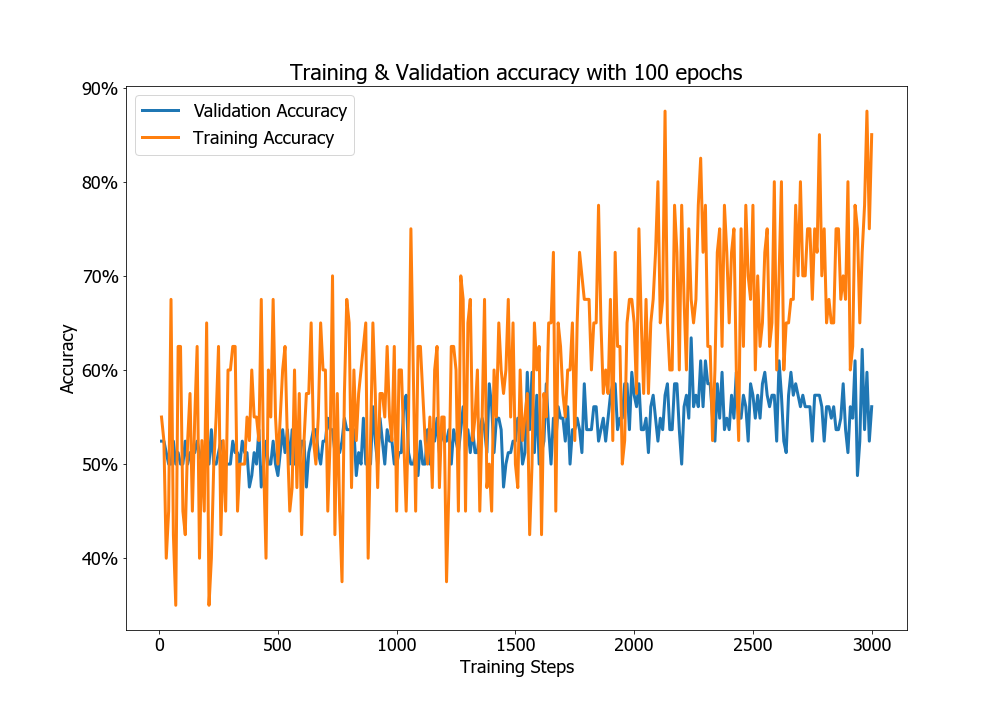
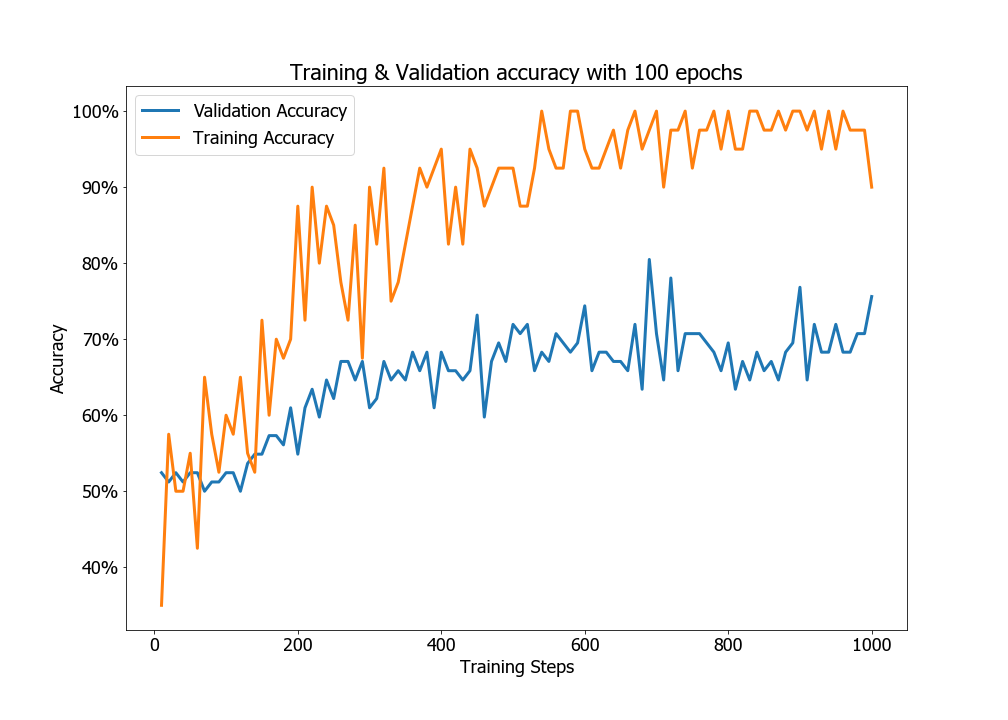
fixing embedding mistakes

diff --git a/src/LEAM/testing.py b/src/LEAM/testing.py
@@ -1,0 +1,89 @@
+# -*- coding: utf-8 -*-
+
+import os, sys, cPickle
+import torch
+import torch.nn as nn
+import torch.nn.functional as F
+import numpy as np
+import _uniout
+
+from model import *
+from utils import *
+
+if len(sys.argv) != 2:
+    sys.exit("Usage: $ python testing.py <path to model file, ending with .pt>")
+
+device = torch.device('cuda:0' if torch.cuda.is_available() else 'cpu')
+
+
+opt = Options() # Please specify the options in utils.py file
+loadpath = "../../data/word_dic.p"
+embpath = "../../data/word_emb_ver_1.0.p"
+opt.num_class = 4
+opt.class_name = ['normal', 'depression', 'traumatic', 'bipolar']
+
+x = cPickle.load(open(loadpath, "rb"))
+train, val, test = x[0], x[1], x[2]
+train_lab, val_lab, test_lab = x[6], x[7], x[8]
+wordtoix, ixtoword = x[9], x[10]
+#print(train_lab)
+#train_lab = [np.array([[1.],[0.],[0.],[0.]]) if x == 'normal' else np.array([[0.],[1.],[0.],[0.]]) if x == 'depression' else np.array([[0.],[0.],[1.],[0.]]) if x == 'bipolar' else np.array([[0.],[0.],[0.],[1.]]) for x in train_lab]
+#val_lab = [np.array([[1.],[0.],[0.],[0.]]) if x == 'normal' else np.array([[0.],[1.],[0.],[0.]]) if x == 'depression' else np.array([[0.],[0.],[1.],[0.]]) if x == 'bipolar' else np.array([[0.],[0.],[0.],[1.]]) for x in val_lab]
+#test_lab = [np.array([[1.],[0.],[0.],[0.]]) if x == 'normal' else np.array([[0.],[1.],[0.],[0.]]) if x == 'depression' else np.array([[0.],[0.],[1.],[0.]]) if x == 'bipolar' else np.array([[0.],[0.],[0.],[1.]]) for x in test_lab]
+del x
+print("load data finished")
+
+test_lab = np.array(test_lab, dtype='float32')
+opt.n_words = len(ixtoword)
+
+
+opt.W_emb = np.array(cPickle.load(open(embpath, 'rb')),dtype='float32')[0]
+opt.W_class_emb =  load_class_embedding( wordtoix, opt)
+uidx = 0
+max_val_accuracy = 0.
+max_test_accuracy = 0.
+
+# Load model
+model = LeamNet(opt).to(device)
+if torch.cuda.is_available():
+    model.load_state_dict(torch.load(sys.argv[1]))
+else:
+    model.load_state_dict(torch.load(sys.argv[1],map_location='cpu'))
+
+# Get 1000 samples to test
+test_sent, test_mask = prepare_data_for_emb(test[:1000], opt)
+test_sent = torch.LongTensor(test_sent).to(device)
+test_mask = torch.tensor(test_mask).to(device)
+
+test_lab = np.array(test_lab[:1000])
+test_lab = test_lab.reshape((len(test_lab), opt.num_class))
+
+logits,logits_class, Att_v = model(test_sent, test_mask, opt)
+
+prob = nn.Softmax()(logits).to(device)
+correct_prediction = torch.eq(torch.argmax(prob, 1).to(device), torch.argmax(torch.tensor(test_lab), 1).to(device)).to(device)
+accuracy = torch.mean(correct_prediction.type(torch.float64)).to(device)
+print("Test accuracy %f " % accuracy)
+
+# Saving the predictions and the attentions
+if not os.path.isdir(opt.save_path+"attentions"):
+    os.mkdir(opt.save_path+"attentions")
+
+test_sents_words = []
+for j in np.array(test_sent.cpu()):
+    sent = [ixtoword[i] for i in j]
+    test_sents_words.append(sent)
+
+predictions = np.array(torch.argmax(prob, 1).cpu())
+ground_truths = np.array(torch.argmax(torch.tensor(test_lab), 1).cpu())
+
+
+for i, words, alphas_values, ground_truth, prediction in zip(range(Att_v.shape[0]), test_sents_words, Att_v, ground_truths, predictions):
+    with open(opt.save_path+"attentions/visualization_{}.html".format(i), "w") as html_file:
+        for word, alpha in zip(words, alphas_values / alphas_values.max()):
+            if word == "END":
+                continue
+            html_file.write('<font style="background: rgba(255, 255, 0, %f)"><meta charset="UTF-8">%s</font>\n' % (alpha*1.1, word.encode('utf-8')))
+        html_file.write('<br/><font><meta charset="UTF-8">Ground Truth: %s, Prediction: %s</font>\n' % (opt.class_name[ground_truth].encode('utf-8'), opt.class_name[prediction].encode('utf-8')))
+
+

diff --git a/src/features/data_cleaning.py b/src/features/data_cleaning.py
@@ -1,10 +1,22 @@
 from sklearn.model_selection import train_test_split
 import cPickle
-from utils import *
 import pandas as pd
 
 
-data_path = "../data/cleaned_data.csv"
+def convert_word_to_ix(data,wordtoix):
+    result = []
+    for sent in data:
+        temp = []
+        for w in sent.split():
+            if w in wordtoix:
+                temp.append(wordtoix[w])
+            else:
+                temp.append(1)
+        temp.append(0)
+        result.append(temp)
+    return result
+
+data_path = "../../data/cleaned_data.csv"
 
 df = pd.read_csv(data_path)
 y = [[0,0,0,0] for _ in df['label']]
@@ -44,8 +56,8 @@ X_train, X_test, y_train, y_test = train_test_split(X, y, test_size=0.20, random
 
 X_val = X_train[400:]
 y_val = y_train[400:]
-print(y_val)
-print(y_train)
+print(X_val)
+#print(y_train)
 X_train = X_train[:400]
 y_train = y_train[:400]
 
@@ -57,4 +69,4 @@ X_train = convert_word_to_ix(X_train,wordtoix)
 X_val = convert_word_to_ix(X_val,wordtoix)
 X_test = convert_word_to_ix(X_test,wordtoix)
 
-cPickle.dump([X_train, X_val, X_test, train_text, val_text, test_text, y_train, y_val, y_test, wordtoix, ixtoword], open("../data/word_dic.p", "wb"))
+cPickle.dump([X_train, X_val, X_test, train_text, val_text, test_text, y_train, y_val, y_test, wordtoix, ixtoword], open("../../data/word_dic.p", "wb"))

diff --git a/src/features/embedding.py b/src/features/embedding.py
@@ -13,16 +13,18 @@ def loadGloveModel(gloveFile):
     print("Done.",len(model)," words loaded!")
     return model
 
-model = loadGloveModel("../data/glove.6B.300d.txt")
+model = loadGloveModel("../../data/glove.6B.300d.txt")
 
 vector_size = 300
 
-loadpath = "../data/word_dic.p"
+loadpath = "../../data/word_dic.p"
 
 data = cPickle.load(open(loadpath, "rb"))
 X_train, X_val, X_test = data[0], data[1], data[2]
 y_train, y_val, y_test = data[6], data[7], data[8]
 wordtoix, ixtoword = data[9], data[10]
+
+#print X_val
 
 embedding_vectors = np.random.uniform(-0.25, 0.25, (len(wordtoix), vector_size))
 cc_vocab = list(model.keys())
@@ -39,4 +41,4 @@ for word in wordtoix.keys():
 print("num of vocab in embedding vec: {}".format(count))
 print("num of vocab not in embedding vec: {}".format(mis_count))
 
-cPickle.dump([embedding_vectors.astype(np.float32)], open("../data/word_emb_ver_1.0.p", "wb"))
+cPickle.dump([embedding_vectors.astype(np.float32)], open("../../data/word_emb_ver_1.0.p", "wb"))

diff --git a/src/LEAM/utils.py b/src/LEAM/utils.py
@@ -11,9 +11,9 @@ class Options(object):
         self.maxlen = 305
         self.n_words = None
         self.embed_size = 300
-        self.lr = 5e-4
+        self.lr = 3e-4
         self.batch_size = 40
-        self.max_epochs = 300
+        self.max_epochs = 100
         self.dropout = 0.5
         self.part_data = False
         self.portion = 1.0
@@ -92,16 +92,3 @@ def read_file(file_name):
     return f.read().split('\n')
     #return f.read().split('\n')
 
-
-def convert_word_to_ix(data,wordtoix):
-    result = []
-    for sent in data:
-        temp = []
-        for w in sent:
-            if w in wordtoix:
-                temp.append(wordtoix[w])
-            else:
-                temp.append(1)
-        temp.append(0)
-        result.append(temp)
-    return result

diff --git a/src/LEAM/model.py b/src/LEAM/model.py
@@ -32,6 +32,9 @@ class LeamNet(nn.Module):
         # Init the weights
         self.embed_x.weight.data = self.embed_x.weight.data + torch.tensor(opt.W_emb,requires_grad=True)
         self.embed_y.weight.data = self.embed_y.weight.data + torch.tensor(opt.W_class_emb,requires_grad=True)
+        
+        #self.embed_x.weight.data = self.embed_x.weight.data + torch.tensor(opt.W_emb,requires_grad=False)
+        #self.embed_y.weight.data = self.embed_y.weight.data + torch.tensor(opt.W_class_emb,requires_grad=False)
     
     def forward(self, x, x_mask, opt):
         """

diff --git a/src/LEAM/training.py b/src/LEAM/training.py
@@ -17,7 +17,7 @@ opt = Options() # Please specify the options in utils.py file
 loadpath = "../../data/word_dic.p"
 embpath = "../../data/word_emb_ver_1.0.p"
 opt.num_class = 4
-opt.class_name = ['normal', 'depression', 'bipolar', 'traumatic']
+opt.class_name = ['normal', 'depression', 'traumatic', 'bipolar']
 
 x = cPickle.load(open(loadpath, "rb"))
 train, val, test = x[0], x[1], x[2]
